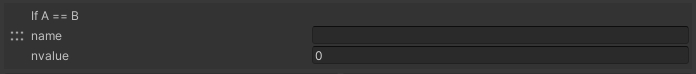
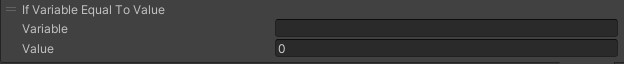
Actions/ Programmatic: 変数比較系アクションの解説をVer12.1準拠に更新

diff --git a/docs/changelog/changelog-12.1.ja.md b/docs/changelog/changelog-12.1.ja.md
@@ -16,5 +16,19 @@
 - SDK Tools
   - [デバッグコンソール](https://vrhikky.github.io/VketCloudSDK_Documents/12.1/ja/debugconsole/debugconsole.html)
     - テクスチャサイズ（メモリ）とメッシュポリゴン数の表示について追記
+- アクションについて
+  - Programmatic
+    - [If Variable Equal To Value](https://vrhikky.github.io/VketCloudSDK_Documents/12.1/ja/Actions/Programmatic/IfEqual.html)
+      - タイトルを変更（旧：If A == B）
+      - 解説をSDK Ver12.1に準拠
+    - [If Variable Not Equal To Value](https://vrhikky.github.io/VketCloudSDK_Documents/12.1/ja/Actions/Programmatic/IfNotEqual.html)
+      - タイトルを変更（旧：If A != B）
+      - 解説をSDK Ver12.1に準拠
+    - [If Variable More Than Value](https://vrhikky.github.io/VketCloudSDK_Documents/12.1/ja/Actions/Programmatic/IfMoreThan.html)
+      - タイトルを変更（旧：If A >= B）
+      - 解説をSDK Ver12.1に準拠
+    - [If Variable Less Than Value](https://vrhikky.github.io/VketCloudSDK_Documents/12.1/ja/Actions/Programmatic/IfLessThan.html)
+      - タイトルを変更（旧：If A <= B）
+      - 解説をSDK Ver12.1に準拠
 
 ## 削除されたページ

diff --git a/docs/changelog/changelog-12.1.en.md b/docs/changelog/changelog-12.1.en.md
@@ -16,5 +16,19 @@
 - SDK Tools
   - [Debug Console](https://vrhikky.github.io/VketCloudSDK_Documents/12.1/en/debugconsole/debugconsole.html)
     - Added info on Texture Size (Memory) and Mesh Polygon Count indicator
+- Actions
+  - Programmatic
+    - [If Variable Equal To Value](https://vrhikky.github.io/VketCloudSDK_Documents/12.1/en/Actions/Programmatic/IfEqual.html)
+      - Changed Title (old:If A == B)
+      - Updated description according to SDK Ver12.1
+    - [If Variable Not Equal To Value](https://vrhikky.github.io/VketCloudSDK_Documents/12.1/en/Actions/Programmatic/IfNotEqual.html)
+      - Changed Title (old:If A != B)
+      - Updated description according to SDK Ver12.1
+    - [If Variable More Than Value](https://vrhikky.github.io/VketCloudSDK_Documents/12.1/en/Actions/Programmatic/IfMoreThan.html)
+      - Changed Title (old:If A >= B)
+      - Updated description according to SDK Ver12.1
+    - [If Variable Less Than Value](https://vrhikky.github.io/VketCloudSDK_Documents/12.1/en/Actions/Programmatic/IfLessThan.html)
+      - Changed Title (old:If A <= B)
+      - Updated description according to SDK Ver12.1
 
 ## Deleted Pages

diff --git a/docs/Actions/Programmatic/IfNotEqual.ja.md b/docs/Actions/Programmatic/IfNotEqual.ja.md
@@ -1,13 +1,14 @@
-# 等しくない場合
-![IfNotEqual](img/IfNotEqualJP.jpg)
+# If Variable Not Equal To Value
 
-指定する変数が数値と等しくない場合、以降のアクションを実行せずに終了します。
+![IfNotEqual](img/IfNotEqual.jpg)
+
+If Variable Not Equal To Value(日本語名：変数が値に等しくない場合)では、指定するVariable(変数)がValue(値)と等しくない場合、以降のアクションを実行せずに終了します。
 
 変数は[SetVar](SetVar.md)にて定義したものが指定できます。
 
 変数の加算は[AddVar](AddVar.md)で行う事が出来ます。
 
-|  ラベル |  機能  |
-| ----   | ---- |
-| 名前 | 指定する変数名 |
-| 数値 | 比較する整数値を設定してください。 |
+| 名称 | 機能  |
+| ---- | ---- |
+| Variable | 比較対象とする変数名を指定してください。 |
+| Value | 比較する整数値を設定してください。 |

diff --git a/docs/Actions/Programmatic/IfEqual.en.md b/docs/Actions/Programmatic/IfEqual.en.md
@@ -1,14 +1,14 @@
+# If Variable Equal To Value
 
-# If A == B
 ![IfEqual](img/IfEqual.jpg)
 
-If A(variable) equals to B(int), the Actions that follow will be discarded.
+If a designated Variable equals to Value(integer), the Actions that follow will be discarded.
 
 The variable defined at [SetVar](SetVar.md) is applicable.
 
 Addition to the variable can be done by using [AddVar](AddVar.md).
 
-|  Label |  function  |
-| ----   | ---- |
-| name | Specify the variable name being compared. |
-| nvalue | Set the comparing integer value. |
+| Label | function |
+| ---- | ---- |
+| Variable | Specify the variable name being compared. |
+| Value | Set the comparing integer value. |

diff --git a/docs/Actions/Programmatic/IfLessThan.ja.md b/docs/Actions/Programmatic/IfLessThan.ja.md
@@ -1,8 +1,8 @@
-# If Variable Equal To Value
+# If Variable Less Than Value
 
-![IfEqual](img/IfEqual.jpg)
+![IfLessThan](img/IfLessThan.jpg)
 
-If Variable Equal To Value(日本語名：変数が値に等しい場合)では、比較対象とするVariable(変数)がValue（値）と等しい場合、以降のアクションを実行せずに終了します。
+If Variable Less Than Value(日本語名：変数が値より小さい場合)では、比較対象とするVariable(変数)がValue(値)より小さい場合、以降のアクションを実行せずに終了します。
 
 変数は[SetVar](SetVar.md)にて定義したものが指定できます。
 

diff --git a/docs/Actions/Programmatic/IfMoreThan.ja.md b/docs/Actions/Programmatic/IfMoreThan.ja.md
@@ -1,8 +1,8 @@
-# If Variable Equal To Value
+# If Variable More Than Value
 
-![IfEqual](img/IfEqual.jpg)
+![IfMoreThan](img/IfMoreThan.jpg)
 
-If Variable Equal To Value(日本語名：変数が値に等しい場合)では、比較対象とするVariable(変数)がValue（値）と等しい場合、以降のアクションを実行せずに終了します。
+If Variable More Than Value(日本語名：変数が値より大きい場合)では、比較対象とするVariable(変数)がValue(値)より大きい場合、以降のアクションを実行せずに終了します。
 
 変数は[SetVar](SetVar.md)にて定義したものが指定できます。
 

diff --git a/docs/Actions/Programmatic/IfMoreThan.en.md b/docs/Actions/Programmatic/IfMoreThan.en.md
@@ -1,8 +1,8 @@
-# If Variable Not Equal To Value
+# If Variable More Than Value
 
-![IfNotEqual](img/IfNotEqual.jpg)
+![IfMoreThan](img/IfMoreThan.jpg)
 
-If a designated Variable is not equal to Value(integer), the Actions that follow will be discarded.
+If a designated Variable is more than the Value(integer), the Actions that follow will be discarded.
 
 The variable defined at [SetVar](SetVar.md) is applicable.
 
@@ -12,3 +12,4 @@ Addition to the variable can be done by using [AddVar](AddVar.md).
 | ---- | ---- |
 | Variable | Specify the variable name being compared. |
 | Value | Set the comparing integer value. |
+

diff --git a/docs/Actions/Programmatic/IfLessThan.en.md b/docs/Actions/Programmatic/IfLessThan.en.md
@@ -1,8 +1,8 @@
-# If Variable Not Equal To Value
+# If Variable Less Than Value
 
-![IfNotEqual](img/IfNotEqual.jpg)
+![IfLessThan](img/IfLessThan.jpg)
 
-If a designated Variable is not equal to Value(integer), the Actions that follow will be discarded.
+If a designated Variable is less than the Value(integer), the Actions that follow will be discarded.
 
 The variable defined at [SetVar](SetVar.md) is applicable.
 
